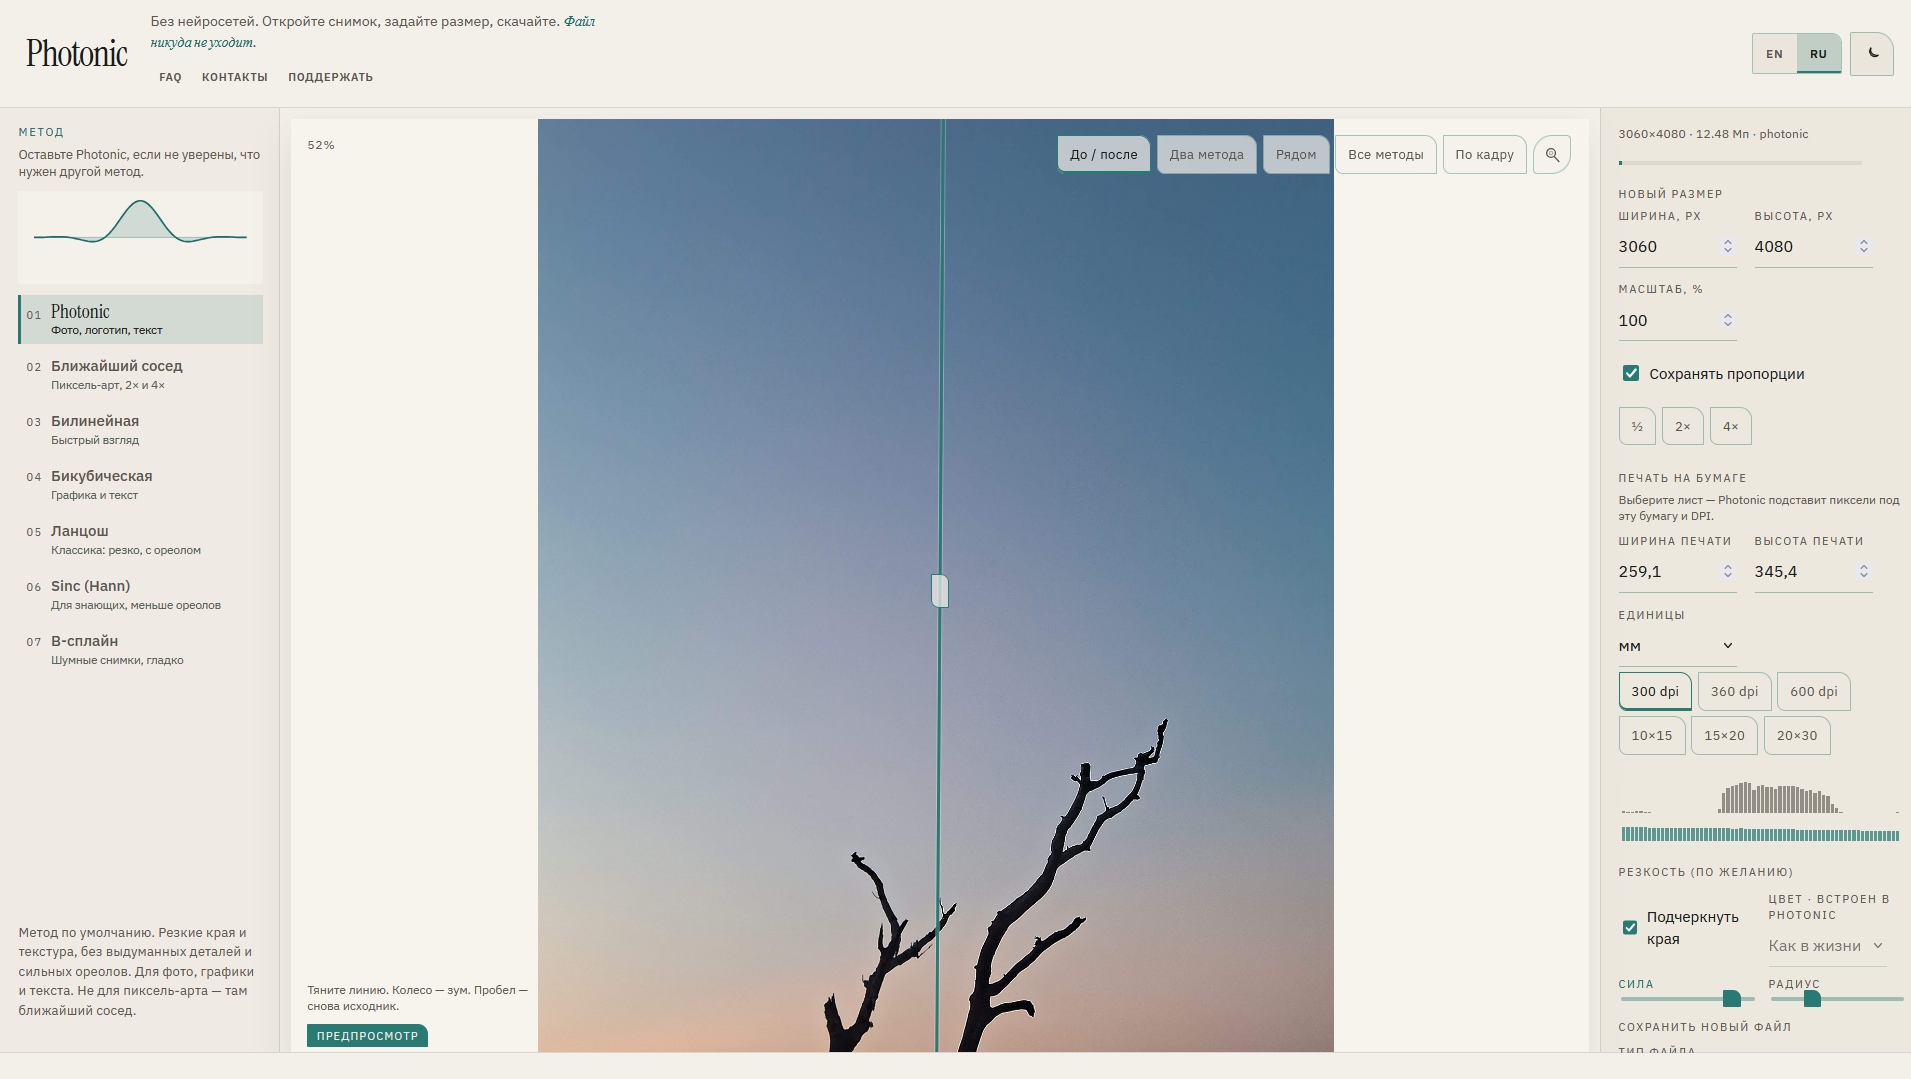
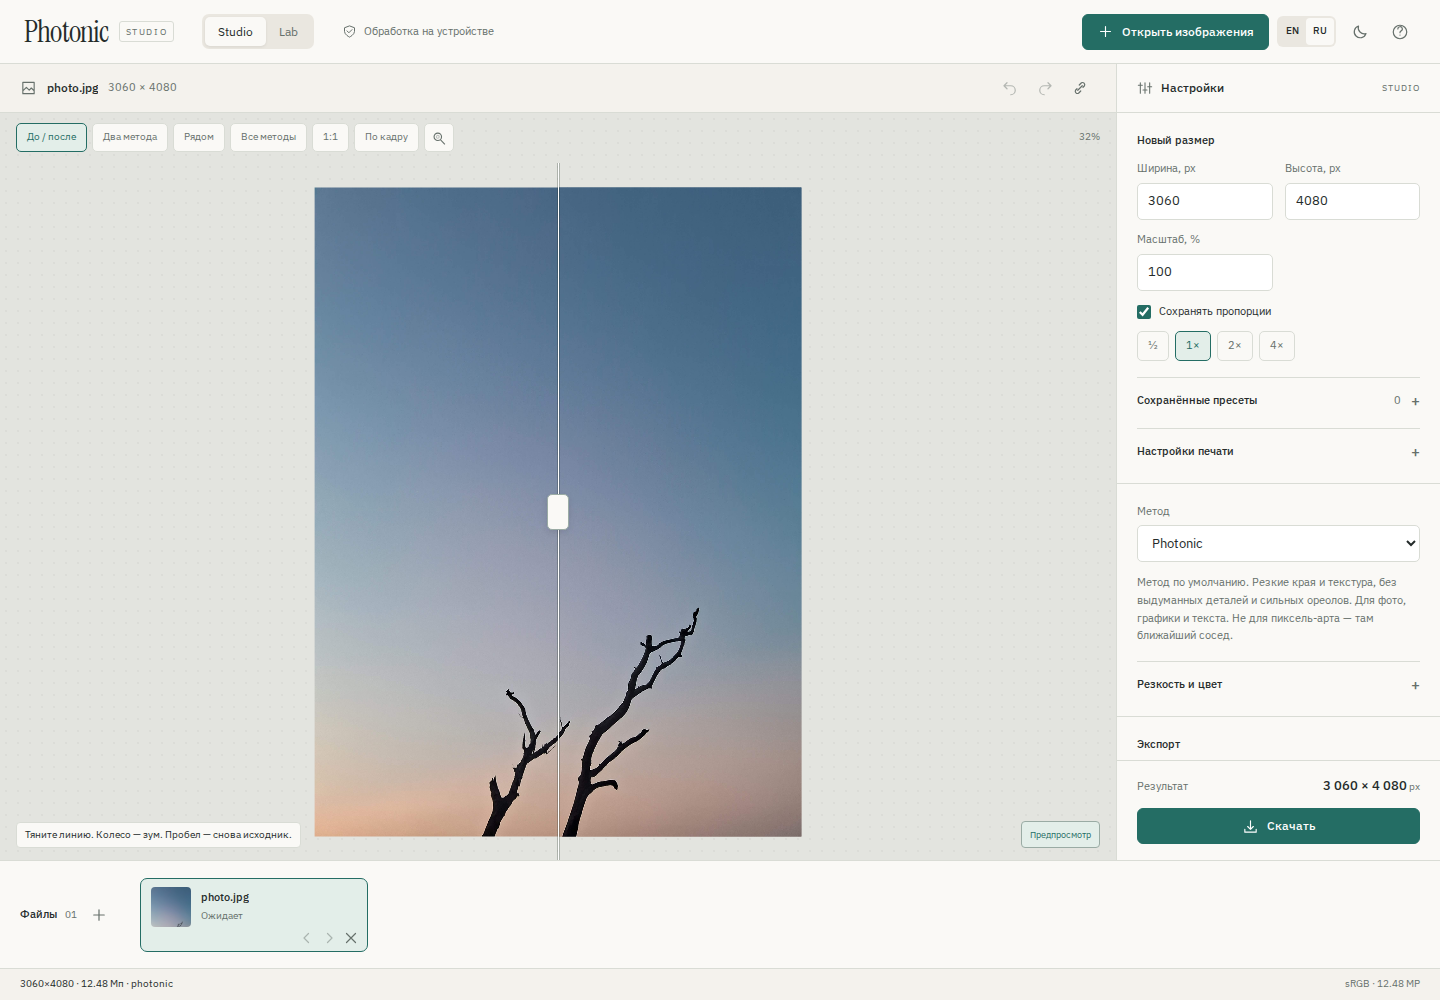
Finalize mobile typography, exact pixel zoom, ZIP cancellation and verified screenshots

diff --git a/src/hooks/studio/useExports.ts b/src/hooks/studio/useExports.ts
@@ -42,6 +42,7 @@ export function useExports(
       const start = performance.now();
       const entries: { name: string; blob: Blob }[] = [];
       const used = new Set<string>();
+      const encodedIds: string[] = [];
       const scale = currentScale(s);
       let changedSource = false;
       let failures = 0;
@@ -117,8 +118,9 @@ export function useExports(
             totalBytes += entry.blob.size;
             if (mode !== "zip") entries.length = 0;
             entries.push(entry);
+            encodedIds.push(item.id);
             if (mode === "each" || mode === "current" || mode === "retry") downloadBlob(entry.blob, entry.name);
-            mark(item.id, "ready");
+            if (mode !== "zip") mark(item.id, "ready");
           } catch (error) {
             if (isAbortError(error) || signal.aborted) {
               mark(item.id, "waiting");
@@ -133,7 +135,10 @@ export function useExports(
           const name = mode === "zip" ? `photonic-batch-${s.kernel}.zip` : entries[0].name;
           const blob = mode === "zip" ? await zipBlobs(entries, signal) : entries[0].blob;
           signal.throwIfAborted();
-          if (mode === "zip") downloadBlob(blob, name);
+          if (mode === "zip") {
+            downloadBlob(blob, name);
+            for (const id of encodedIds) mark(id, "ready");
+          }
           const bytes = mode === "zip" ? blob.size : totalBytes;
           setDetails({ name, bytes, seconds: (performance.now() - start) / 1000 });
           runtime.status(
@@ -142,6 +147,7 @@ export function useExports(
           );
         } else runtime.status({ key: "studio.allFailed" }, "error");
       } catch (error) {
+        if (mode === "zip") for (const id of encodedIds) mark(id, signal.aborted ? "waiting" : "error");
         runtime.status(
           signal.aborted || isAbortError(error) ? { key: "studio.cancelled" } : statusFromError(error),
           signal.aborted ? undefined : "error",

diff --git a/tests/browser/studio.spec.ts b/tests/browser/studio.spec.ts
@@ -53,6 +53,7 @@ test("layout, sample loading, both themes and accessible export", async ({ page 
   await ready(page);
   await expect(page.locator(".stage-empty")).toBeHidden();
   await expect(page.locator(".versus-tags")).toBeHidden();
+  await expect(page.getByRole("button", { name: "1:1", exact: true })).toBeDisabled();
   const button = page.getByRole("button", { name: "Скачать", exact: true });
   const rect = await button.boundingBox();
   const viewport = page.viewportSize()!;
@@ -60,6 +61,8 @@ test("layout, sample loading, both themes and accessible export", async ({ page 
   expect(rect!.x + rect!.width).toBeLessThanOrEqual(viewport.width);
   expect(await page.evaluate(() => document.documentElement.scrollWidth <= innerWidth)).toBe(true);
   await page.screenshot({ path: testInfo.outputPath("workspace.png"), animations: "disabled" });
+  if (testInfo.project.name.startsWith("mobile"))
+    await expect(page.getByLabel("Ширина, px", { exact: true })).toHaveCSS("font-size", "16px");
   expect(errors).toEqual([]);
 });
 
@@ -196,5 +199,6 @@ test("batch cancellation releases the worker and keeps originals", async ({ page
   await page.getByLabel("Ширина, px", { exact: true }).fill("32");
   await ready(page);
   await expect(page.locator('.document[data-status="processing"]')).toHaveCount(0);
+  await expect(page.locator('.document[data-status="ready"]')).toHaveCount(0);
   await expect(page.locator(".document")).toHaveCount(2);
 });

diff --git a/src/lib/i18n/ru.ts b/src/lib/i18n/ru.ts
@@ -191,7 +191,7 @@ export const ru: Messages = {
   "enlarger.passportExif": "Заметки камеры копируются при скачивании (место съёмки убирается).",
   "enlarger.passportNone": "У этого файла нет заметок камеры.",
 
-  "status.ready": "Откройте снимок, справа задайте размер и нажмите «Скачать».",
+  "status.ready": "Откройте изображение, задайте размер и скачайте результат.",
   "status.overview": "Собираем превью…",
   "status.interpolating": "Меняем размер…",
   "status.dims": "{w}×{h} · {mp} Мп · {kernel}",
@@ -285,6 +285,7 @@ export const ru: Messages = {
   "studio.afterEncoding": "После сжатия",
   "studio.labHint": "Выберите деталь лупой, затем сравните все методы на этом участке.",
   "studio.noSource": "Откройте изображение для начала работы",
+  "studio.actualUnavailable": "Для больших изображений используйте лупу 1:1.",
   "studio.actual": "Реальный размер",
   "error.memory_budget":
     "Для этого размера требуется больше памяти, чем доступно на устройстве. Выберите меньший размер.",

diff --git a/src/components/Preview.tsx b/src/components/Preview.tsx
@@ -106,7 +106,13 @@ export const Preview = forwardRef<PreviewHandle, PreviewProps>(function Preview(
               {t(key)}
             </button>
           ))}
-          <button className="chip" type="button" title={t("studio.actual")} onClick={actualPixels}>
+          <button
+            className="chip"
+            type="button"
+            title={t(props.overview ? "studio.actualUnavailable" : "studio.actual")}
+            disabled={props.overview || viewMode === "grid"}
+            onClick={actualPixels}
+          >
             1:1
           </button>
           <button className="chip chip-fit" type="button" title={t("preview.fitHint")} onClick={() => resetView()}>

diff --git a/src/lib/i18n/en.ts b/src/lib/i18n/en.ts
@@ -282,6 +282,7 @@ export const en = {
   "studio.afterEncoding": "Encoded file",
   "studio.labHint": "Use the loupe to pick a detail, then compare all methods on that area.",
   "studio.noSource": "Open an image to begin",
+  "studio.actualUnavailable": "Use the 1:1 loupe for images larger than the full preview.",
   "studio.actual": "Actual pixels",
   "error.memory_budget":
     "This image size needs more memory than this device can safely provide. Choose a smaller size.",

diff --git a/src/components/preview/useCanvasPreview.ts b/src/components/preview/useCanvasPreview.ts
@@ -411,7 +411,7 @@ export function useCanvasPreview(props: PreviewProps, ref: ForwardedRef<PreviewH
     { applyTransform, loupeToolOn, resetView, setSplit, zoomTo, clearHoldPress, hideLoupe, fitScale, setLoupeOn },
   );
   const actualPixels = () => {
-    zoomRef.current = clampZoom(1 / fitScale());
+    zoomRef.current = 1 / fitScale();
     panXRef.current = 0;
     panYRef.current = 0;
     applyTransform();

diff --git a/src/components/PhotonicApp.tsx b/src/components/PhotonicApp.tsx
@@ -96,6 +96,7 @@ export function PhotonicApp() {
               <Preview
                 ref={previewRef}
                 hasSource={state.hasSource}
+                overview={state.overview}
                 viewMode={state.viewMode}
                 kernel={state.kernel}
                 versusA={state.versusA}

diff --git a/src/styles/controls.css b/src/styles/controls.css
@@ -375,3 +375,11 @@ input[type="color"] {
     grid-column: 1 / -1;
   }
 }
+
+@media (max-width: 960px) {
+  .enlarger input[type="number"],
+  .enlarger input[type="text"],
+  .enlarger select {
+    font-size: 16px;
+  }
+}

diff --git a/src/components/preview/types.ts b/src/components/preview/types.ts
@@ -17,6 +17,7 @@ export type PreviewHandle = {
 
 export type PreviewProps = {
   hasSource: boolean;
+  overview: boolean;
   viewMode: ViewMode;
   kernel: KernelId;
   versusA: KernelId;

diff --git a/README.md b/README.md
@@ -4,6 +4,8 @@
 
 [Открыть Photonic](https://skaletun.github.io/Photonic/) · [Исходники](https://github.com/skaletun/Photonic)
 
+![Photonic Studio: холст, инспектор и очередь файлов](docs/readme/bench.png)
+
 ## Рабочее пространство
 
 - **Studio:** большой холст, размер и метод в инспекторе, постоянно доступный экспорт, очередь с миниатюрами.
@@ -43,7 +45,7 @@
 | Изменить масштаб просмотра | + / −                           |
 | Временно показать исходник | Пробел                          |
 
-Зум поддерживает колесо и щипок. Панорамирование — перетаскивание. Граница сравнения доступна с клавиатуры. Кнопки **По кадру** и **1:1** управляют масштабом просмотра.
+Зум поддерживает колесо и щипок. Панорамирование — перетаскивание. Граница сравнения доступна с клавиатуры. Кнопки **По кадру** и **1:1** управляют масштабом просмотра. На крупных изображениях точный участок показывает лупа 1:1; кнопка 1:1 для обзорного кадра отключена.
 
 ## Офлайн и обновления
 
